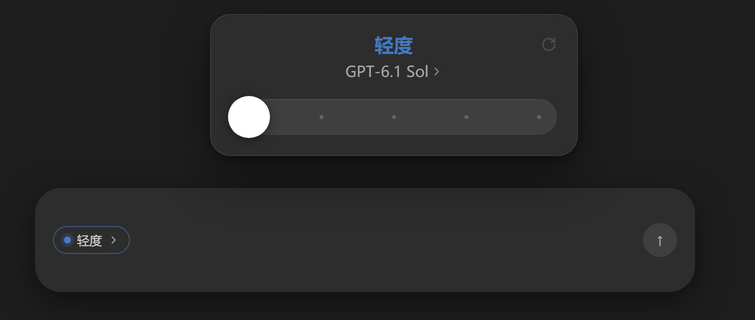
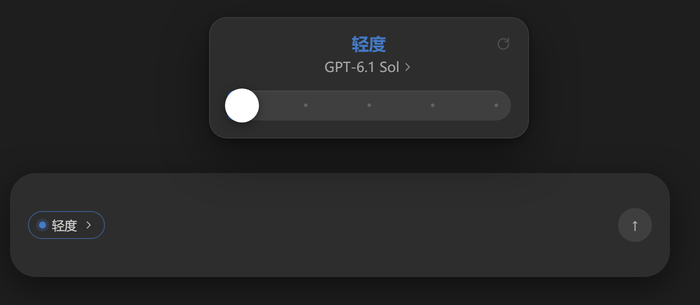
tweak: 卡片整体缩小一档，扫描加快到 2.4s
- 卡片几何整体收一档：宽 368→320、拖柄 42→34、轨道 36→30、标题 19→17px、
  模型名 15→13.5px、内距 18/20→15/17、圆角 20→18、圆点 4→3.5px；
  模型列表行高 38→34、字号 14→13、说明气泡 max-width 264→236。
- 几何常量集中成 CARD_W / TRACK_H / KNOB_D / TRACK_INSET / TIP_W 与 posAt()，
  CSS 与拖拽计算共用同一组值，不会再两头写死数字对不上。
- 浮尘与溅射粒子按同比例缩小（远景 0.95-1.8px、中景 2.0-2.9px、近景 3.4-4.0px，
  两轴振幅同步收一档）。
- 扫描 2.8s → 2.4s（用户反馈「蓝色飘出来稍微快一点点」）。

顺带修掉工具链：render-preview.mjs 被 PowerShell Get-Content/Set-Content 往返
双重编码损坏（中文变乱码且行被吞），已重写为 tools/preview-render.mjs；
以后不再用 PowerShell 读写 UTF-8 源文件。

diff --git a/lib/client.js b/lib/client.js
@@ -30,6 +30,17 @@ window.__ModuleLoader__.load({
     const SLOT = 'conversation.input.left'
     const NAMESPACE = 'dsh-codex-power-slider'
 
+    /* 几何：卡片 / 轨道 / 拖柄的尺寸集中在这里，CSS 与拖拽计算共用同一组常量，
+       避免两头各写一份数字对不上。 */
+    const CARD_W = 320
+    const CARD_PAD = 17
+    const TRACK_H = 30
+    const KNOB_D = 34
+    const TRACK_INSET = TRACK_H / 2
+    const TIP_W = 236
+    /** 第 ratio 档时，拖柄圆心 / 圆点相对轨道的 left 值（两端各留半个轨道高）。 */
+    const posAt = (ratio) => 'calc(' + TRACK_INSET + 'px + (100% - ' + TRACK_H + 'px) * ' + ratio + ')'
+
     /* ======================================================================
      * 一、Codex 原版档位文案（当 DSH 适配器只给出 id、没有中文名时兜底）
      *     —— 取自 Codex 应用 thinking_efforts 的 short_label / description。
@@ -95,28 +106,28 @@ body:not([data-ds-dark-theme]) .dshcps-tip{
 
 /* ---------- 卡片 ---------- */
 .dshcps-pop{
-  position:fixed; z-index:1200; width:368px; box-sizing:border-box;
-  padding:18px 20px 20px; border-radius:20px; border:1px solid var(--dshcps-line);
+  position:fixed; z-index:1200; width:${CARD_W}px; box-sizing:border-box;
+  padding:15px ${CARD_PAD}px ${CARD_PAD}px; border-radius:18px; border:1px solid var(--dshcps-line);
   background:var(--dshcps-card); color:var(--dshcps-row); box-shadow:var(--dshcps-shadow);
   animation:dshcps-pop-in .17s cubic-bezier(.2,0,0,1);
 }
 @keyframes dshcps-pop-in{from{opacity:0;transform:translateY(8px) scale(.985)}to{opacity:1;transform:none}}
 
 .dshcps-head{position:relative;text-align:center}
-.dshcps-title{font-size:19px;font-weight:600;line-height:1.25;letter-spacing:.01em;color:var(--dshcps-accent);transition:color .18s ease}
+.dshcps-title{font-size:17px;font-weight:600;line-height:1.25;letter-spacing:.01em;color:var(--dshcps-accent);transition:color .18s ease}
 .dshcps-title.is-ultra{
   background:linear-gradient(92deg,#3b3ad0 0%,#8f8ffa 58%,#6169d1 100%);
   -webkit-background-clip:text; background-clip:text; -webkit-text-fill-color:transparent; color:transparent;
 }
 .dshcps-sub{
-  margin-top:3px; display:inline-flex; align-items:center; gap:2px; padding:2px 2px;
-  border:0; background:none; font:inherit; font-size:15px; color:var(--dshcps-sub);
+  margin-top:2px; display:inline-flex; align-items:center; gap:2px; padding:2px 2px;
+  border:0; background:none; font:inherit; font-size:13.5px; color:var(--dshcps-sub);
   cursor:pointer; border-radius:6px; transition:color .15s ease;
 }
 .dshcps-sub:hover{color:var(--dshcps-sub-hover)}
 .dshcps-reset{
-  position:absolute; top:-3px; right:-6px; width:28px; height:28px; display:grid; place-items:center;
-  border:0; background:none; padding:0; color:var(--dshcps-icon); cursor:pointer; border-radius:9px;
+  position:absolute; top:-2px; right:-5px; width:25px; height:25px; display:grid; place-items:center;
+  border:0; background:none; padding:0; color:var(--dshcps-icon); cursor:pointer; border-radius:8px;
   transition:background .15s ease,color .15s ease;
 }
 .dshcps-reset:hover{background:var(--dshcps-row-hover);color:var(--dshcps-sub-hover)}
@@ -124,7 +135,7 @@ body:not([data-ds-dark-theme]) .dshcps-tip{
 
 /* ---------- 滑杆 ---------- */
 .dshcps-track{
-  position:relative; margin-top:16px; height:36px; border-radius:999px;
+  position:relative; margin-top:13px; height:${TRACK_H}px; border-radius:999px;
   background:var(--dshcps-track); cursor:pointer; touch-action:none;
   box-shadow:inset 0 1px 0 rgba(255,255,255,.05);
 }
@@ -140,7 +151,7 @@ body:not([data-ds-dark-theme]) .dshcps-tip{
    顶层那圈径向柔光不动，只呼吸，负责「材质里有光」而不是「白点堆叠」。 */
 .dshcps-ultra{
   position:absolute; inset:0; overflow:hidden; border-radius:inherit; pointer-events:none;
-  --dshcps-sweep:2.8s;
+  --dshcps-sweep:2.4s;
   --dshcps-sweep-ease:cubic-bezier(.30,.08,.25,1);
   background-image:
     radial-gradient(ellipse at 54% 28%,
@@ -226,12 +237,12 @@ body:not([data-ds-dark-theme]) .dshcps-tip{
   .dshcps-burst{display:none}
 }
 .dshcps-dot{
-  position:absolute; top:50%; width:4px; height:4px; margin:-2px 0 0 -2px; border-radius:50%;
+  position:absolute; top:50%; width:3.5px; height:3.5px; margin:-1.75px 0 0 -1.75px; border-radius:50%;
   background:var(--dshcps-dot); transition:background .18s ease;
 }
 .dshcps-dot.is-passed{background:rgba(255,255,255,.45)}
 .dshcps-knob{
-  position:absolute; top:50%; width:42px; height:42px; border-radius:50%; background:var(--dshcps-knob);
+  position:absolute; top:50%; width:${KNOB_D}px; height:${KNOB_D}px; border-radius:50%; background:var(--dshcps-knob);
   transform:translate(-50%,-50%); box-shadow:0 2px 10px rgba(0,0,0,.38),0 0 0 1px rgba(0,0,0,.05);
   transition:left .24s cubic-bezier(.2,0,0,1); will-change:left;
 }
@@ -240,29 +251,29 @@ body:not([data-ds-dark-theme]) .dshcps-tip{
 .dshcps-track.is-locked{cursor:default;opacity:.6}
 
 /* ---------- 模型列表 ---------- */
-.dshcps-panel-title{padding:2px 2px 8px;font-size:13px;color:var(--dshcps-dim)}
-.dshcps-group{padding-top:4px}
-.dshcps-group-head{display:block;padding:8px 2px 4px}
-.dshcps-group-name{font-size:14px;font-weight:600;color:var(--dshcps-row);line-height:1.35}
-.dshcps-group-sub{font-size:12px;color:var(--dshcps-dim);line-height:1.4}
+.dshcps-panel-title{padding:2px 2px 7px;font-size:12px;color:var(--dshcps-dim)}
+.dshcps-group{padding-top:3px}
+.dshcps-group-head{display:block;padding:7px 2px 4px}
+.dshcps-group-name{font-size:13px;font-weight:600;color:var(--dshcps-row);line-height:1.35}
+.dshcps-group-sub{font-size:11.5px;color:var(--dshcps-dim);line-height:1.4}
 .dshcps-row{
   position:relative; display:flex; align-items:center; justify-content:space-between; gap:10px;
-  width:100%; height:38px; padding:0 10px; box-sizing:border-box; border:0; border-radius:10px;
-  background:none; font:inherit; font-size:14px; color:var(--dshcps-row); text-align:left; cursor:pointer;
+  width:100%; height:34px; padding:0 9px; box-sizing:border-box; border:0; border-radius:9px;
+  background:none; font:inherit; font-size:13px; color:var(--dshcps-row); text-align:left; cursor:pointer;
   transition:background .12s ease;
 }
 .dshcps-row:hover{background:var(--dshcps-row-hover)}
 .dshcps-row-name{overflow:hidden;text-overflow:ellipsis;white-space:nowrap}
-.dshcps-row-effort{flex:none;font-size:12px;color:var(--dshcps-dim)}
-.dshcps-check{flex:none;width:16px;height:16px;color:var(--dshcps-row)}
-.dshcps-empty{padding:10px 2px;font-size:13px;color:var(--dshcps-dim)}
+.dshcps-row-effort{flex:none;font-size:11.5px;color:var(--dshcps-dim)}
+.dshcps-check{flex:none;width:15px;height:15px;color:var(--dshcps-row)}
+.dshcps-empty{padding:9px 2px;font-size:12.5px;color:var(--dshcps-dim)}
 .dshcps-tip{
-  position:fixed; z-index:1201; max-width:264px; padding:8px 12px; border-radius:12px;
-  background:var(--dshcps-tip); color:var(--dshcps-tip-text); font-size:12.5px; line-height:1.5;
+  position:fixed; z-index:1201; max-width:${TIP_W}px; padding:7px 11px; border-radius:11px;
+  background:var(--dshcps-tip); color:var(--dshcps-tip-text); font-size:12px; line-height:1.5;
   box-shadow:var(--dshcps-shadow); pointer-events:none; animation:dshcps-pop-in .13s ease;
 }
-.dshcps-error{margin-top:8px;font-size:12px;color:var(--dsw-alias-state-error-primary,#e5484d)}
-.dshcps-note{margin-top:6px;font-size:12px;color:var(--dshcps-dim);text-align:center}
+.dshcps-error{margin-top:7px;font-size:11.5px;color:var(--dsw-alias-state-error-primary,#e5484d)}
+.dshcps-note{margin-top:5px;font-size:11.5px;color:var(--dshcps-dim);text-align:center}
 `
 
     if (typeof document !== 'undefined' && !document.querySelector('style[data-dshcps]')) {
@@ -356,7 +367,7 @@ body:not([data-ds-dark-theme]) .dshcps-tip{
       )
     }
 
-    function ChevronIcon({ size = 13 }) {
+    function ChevronIcon({ size = 12 }) {
       return h(
         'svg',
         {
@@ -377,7 +388,7 @@ body:not([data-ds-dark-theme]) .dshcps-tip{
       )
     }
 
-    function ResetIcon({ size = 17 }) {
+    function ResetIcon({ size = 15 }) {
       return h(
         'svg',
         { width: size, height: size, viewBox: '0 0 18 18', fill: 'none', 'aria-hidden': 'true' },
@@ -420,24 +431,24 @@ body:not([data-ds-dark-theme]) .dshcps-tip{
         let tx
         let ty
         if (kind === 'near') {
-          size = between(4.0, 4.6)
+          size = between(3.4, 4.0)
           opacity = between(0.28, 0.43)
-          ax = between(7, 11)
-          ay = between(3.0, 5.5)
+          ax = between(6, 9.5)
+          ay = between(2.6, 4.7)
           tx = between(10, 14)
           ty = between(7.5, 11)
         } else if (kind === 'mid') {
-          size = between(2.4, 3.4)
+          size = between(2.0, 2.9)
           opacity = between(0.5, 0.72)
-          ax = between(5, 9)
-          ay = between(2.5, 4.8)
+          ax = between(4.5, 7.5)
+          ay = between(2.2, 4.1)
           tx = between(12, 17)
           ty = between(9, 14)
         } else {
-          size = between(1.1, 2.1)
+          size = between(0.95, 1.8)
           opacity = between(0.3, 0.62)
-          ax = between(3, 6.5)
-          ay = between(1.8, 3.8)
+          ax = between(2.6, 5.5)
+          ay = between(1.6, 3.2)
           tx = between(15, 23)
           ty = between(11, 18)
         }
@@ -518,11 +529,11 @@ body:not([data-ds-dark-theme]) .dshcps-tip{
         for (let i = 0; i < count; i++) {
           // 角度偏上半圈 + 右侧，和原版一样主要往右上散
           const angle = (-Math.PI * 0.92) * random() + Math.PI * 0.06
-          const distance = 14 + random() * 26
+          const distance = 12 + random() * 22
           out.push({
             sx: (Math.cos(angle) * distance) / 1.1,
             sy: Math.sin(angle) * distance,
-            size: 1.3 + random() * 1.8,
+            size: 1.1 + random() * 1.6,
             opacity: 0.35 + random() * 0.3,
             delay: random() * 0.1,
           })
@@ -653,7 +664,7 @@ body:not([data-ds-dark-theme]) .dshcps-tip{
         const pop = popRef.current
         if (!anchor || !pop) return
         const rect = anchor.getBoundingClientRect()
-        const width = pop.offsetWidth || 368
+        const width = pop.offsetWidth || CARD_W
         const height = pop.offsetHeight || 200
         const left = clamp(rect.left + rect.width / 2 - width / 2, 8, Math.max(8, window.innerWidth - width - 8))
         let top = rect.top - 12 - height
@@ -767,7 +778,7 @@ body:not([data-ds-dark-theme]) .dshcps-tip{
           const track = trackRef.current
           if (!track || total <= 1) return 0
           const rect = track.getBoundingClientRect()
-          const radius = 18
+          const radius = TRACK_INSET
           const usable = Math.max(1, rect.width - radius * 2)
           const ratio = clamp((clientX - rect.left - radius) / usable, 0, 1)
           return Math.round(ratio * (total - 1))
@@ -808,7 +819,7 @@ body:not([data-ds-dark-theme]) .dshcps-tip{
       /* ---------- 悬停说明气泡 ---------- */
       const tipStyle = React.useMemo(() => {
         if (!hovered) return null
-        const width = 264
+        const width = TIP_W
         const left = clamp(hovered.right + 10, 8, Math.max(8, window.innerWidth - width - 8))
         const flip = hovered.right + 10 + width > window.innerWidth - 8
         return {
@@ -821,7 +832,7 @@ body:not([data-ds-dark-theme]) .dshcps-tip{
       if (!sessionId) return null
 
       const ratio = total > 1 ? index / (total - 1) : 0
-      const knobLeft = 'calc(18px + (100% - 36px) * ' + ratio + ')'
+      const knobLeft = posAt(ratio)
       const chipLabel = text ? text.short : '选择推理强度'
 
       const chip = h(
@@ -958,7 +969,7 @@ body:not([data-ds-dark-theme]) .dshcps-tip{
                   h('span', {
                     key: item.id,
                     className: 'dshcps-dot' + (i <= index ? ' is-passed' : ''),
-                    style: { left: 'calc(18px + (100% - 36px) * ' + (total > 1 ? i / (total - 1) : 0) + ')' },
+                    style: { left: posAt(total > 1 ? i / (total - 1) : 0) },
                   }),
                 ),
               ),

diff --git a/README.md b/README.md
@@ -29,7 +29,7 @@
 
 ## 最高档（Ultra）的动效
 
-切到最高档不是「换个颜色」，而是一段 2.8s 的动效：
+切到最高档不是「换个颜色」，而是一段 2.4s 的动效：
 
 - **紫色从右边缘向左扫过**：一条 2 倍宽的材质（左半基础蓝、右半紫蓝本体），靠
   `background-position` 把取景窗从右往左推。用 `background-position` 而不是位移裁切，
@@ -40,8 +40,8 @@
 - **粒子会飘（不是只闪）**：每颗浮尘挂在两层锚点上，**X / Y 各跑一个独立周期**
   （X 10–23s、Y 7.5–18s，均 `ease-in-out` 闭合往返），合成弯曲轨迹 —— 既不是直线往返，
   也不会全体同步；粒子自身只做 5.3–9.1s 的**呼吸**（最低降到峰值的 60–78%），不再闪烁。
-- **三层景深**：18 颗远景（1.1–2.1px 小而实）、5 颗中景（2.4–3.4px，小实核 + 软边）、
-  1 颗近景（4.0–4.6px，大而虚）。用径向渐变软边代替动态 `blur`，静态绘制、只动
+- **三层景深**：18 颗远景（0.95–1.8px 小而实）、5 颗中景（2.0–2.9px，小实核 + 软边）、
+  1 颗近景（3.4–4.0px，大而虚）。用径向渐变软边代替动态 `blur`，静态绘制、只动
   `transform / opacity`。
 - **材质里有光**：两层静态径向柔光，其中一层以 11.7s 缓慢呼吸，负责「材质发光」而不是
   「白点堆叠」。
@@ -169,7 +169,7 @@ DSH 适配器返回的 `effort.name` 永远优先。只有当适配器只给出 
 - 目录里没有模型、或模型没有任何 reasoning 元数据时，滑杆不显示，胶囊退化为只读。
 - 会话被其它 DSH 写句柄占用时提交会失败，卡片下方显示错误文案（对应
   `session/writer-held`）。
-- 卡片宽度固定 368px；窗口过窄时会自动左右夹紧，不会跑出视口。
+- 卡片宽度固定 320px（拖柄 34px / 轨道高 30px / 标题 17px）；窗口过窄时会自动左右夹紧，不会跑出视口。
 
 ## 开发与预览
 
